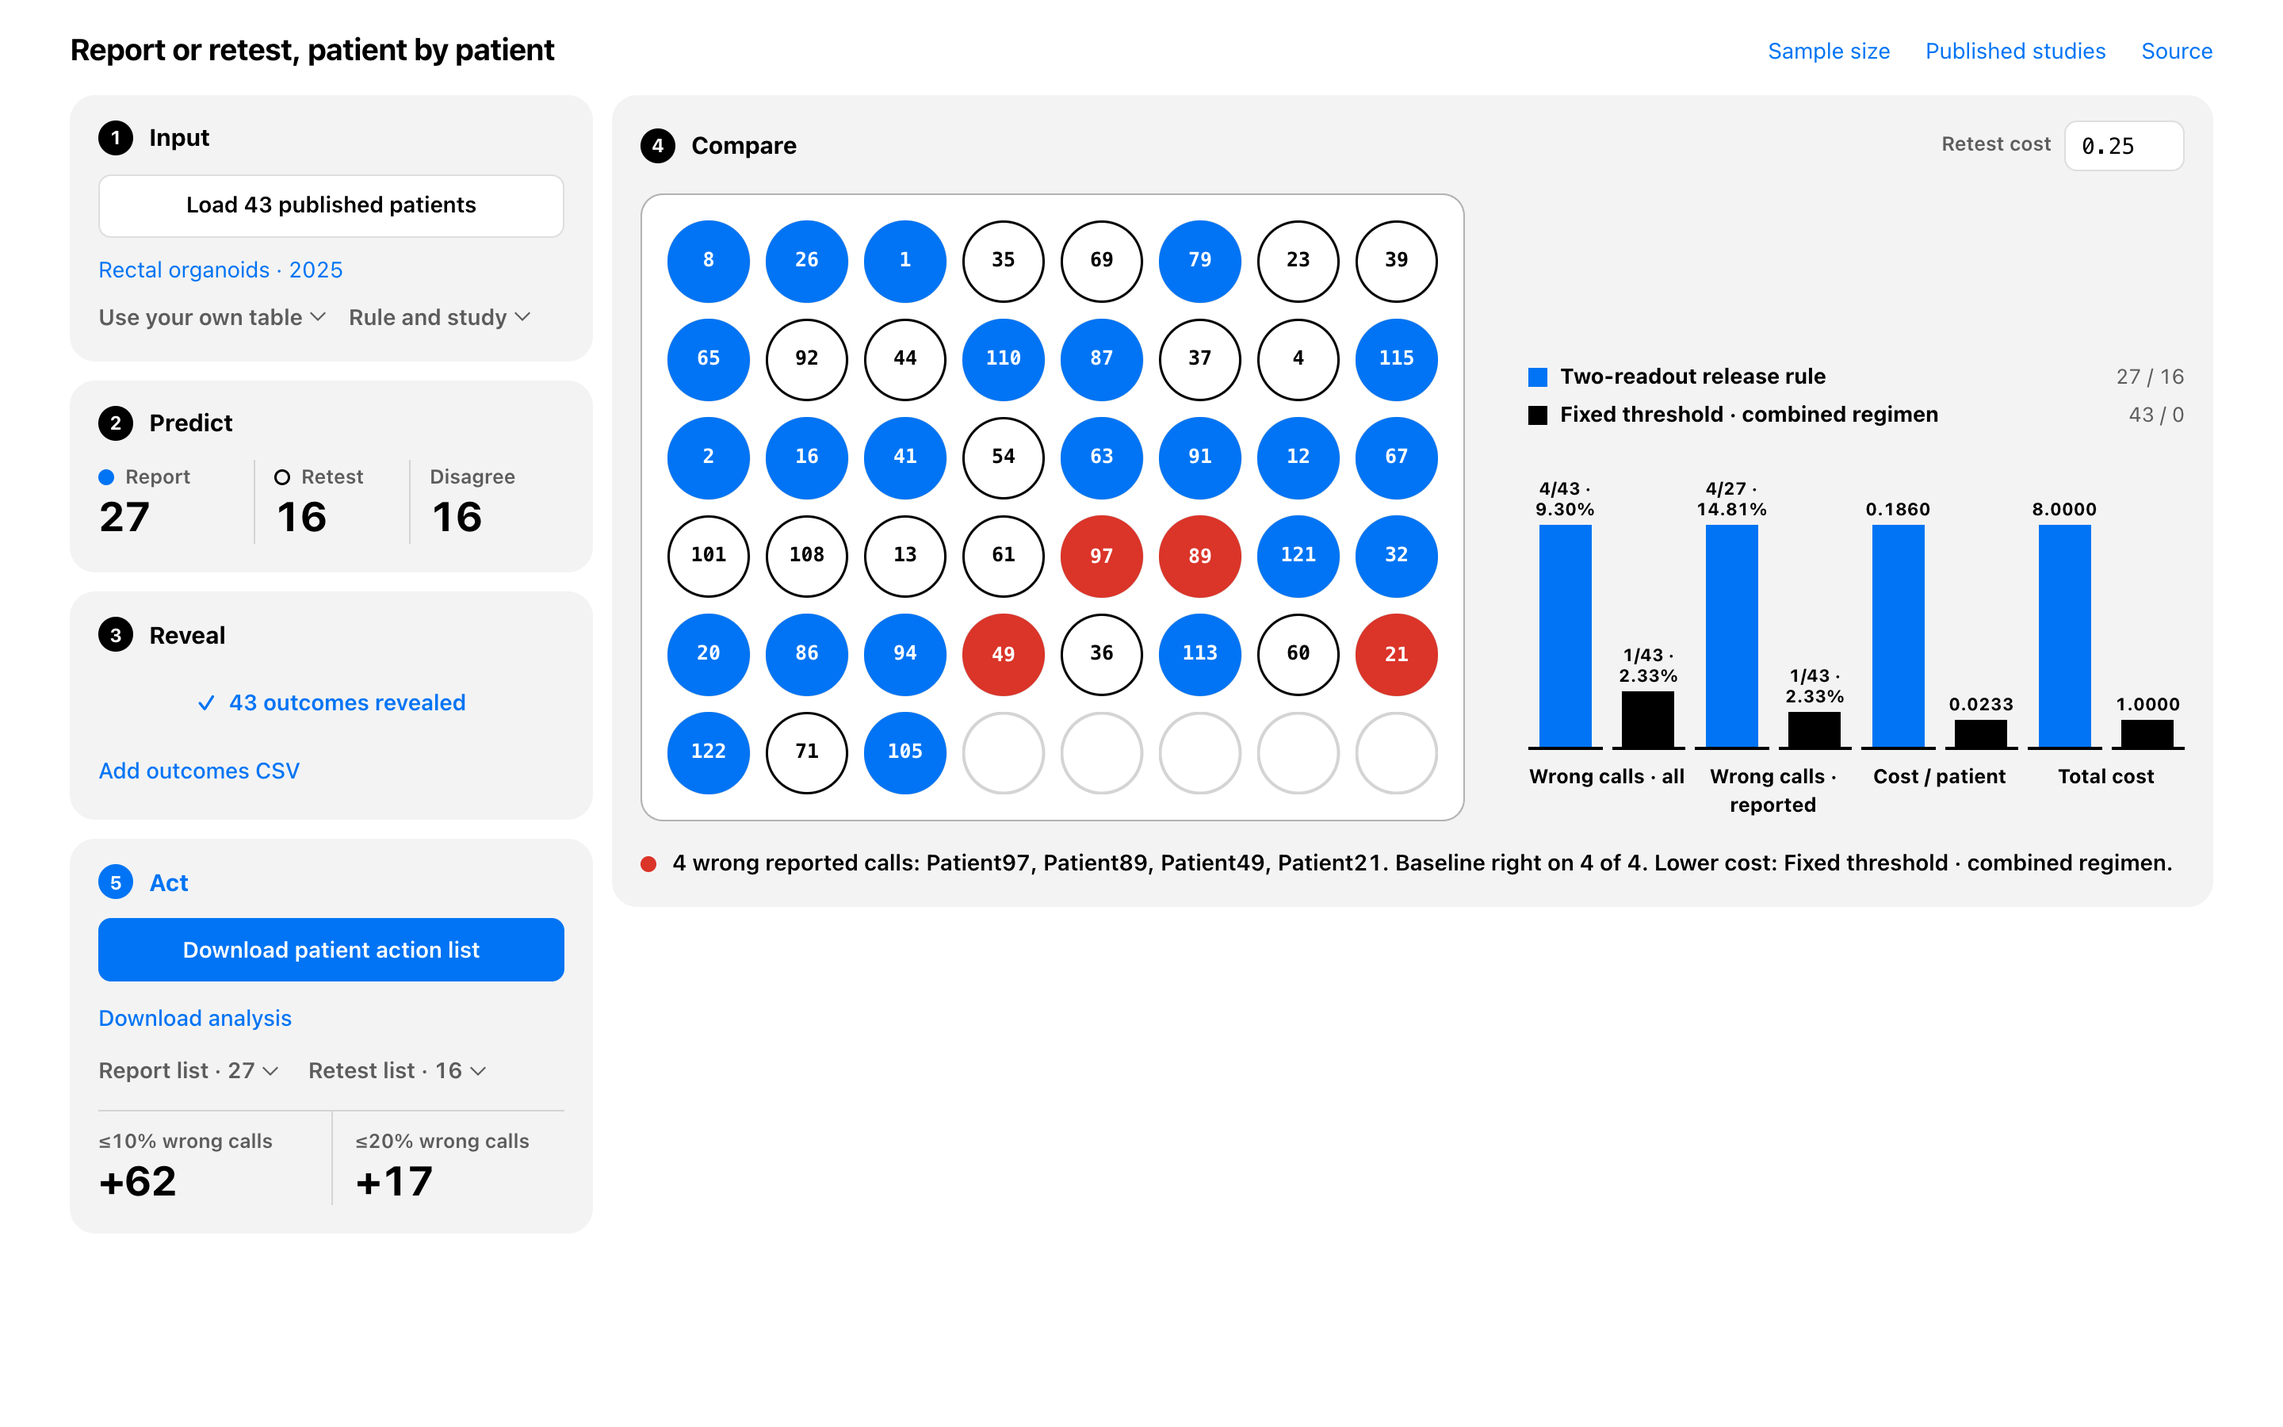
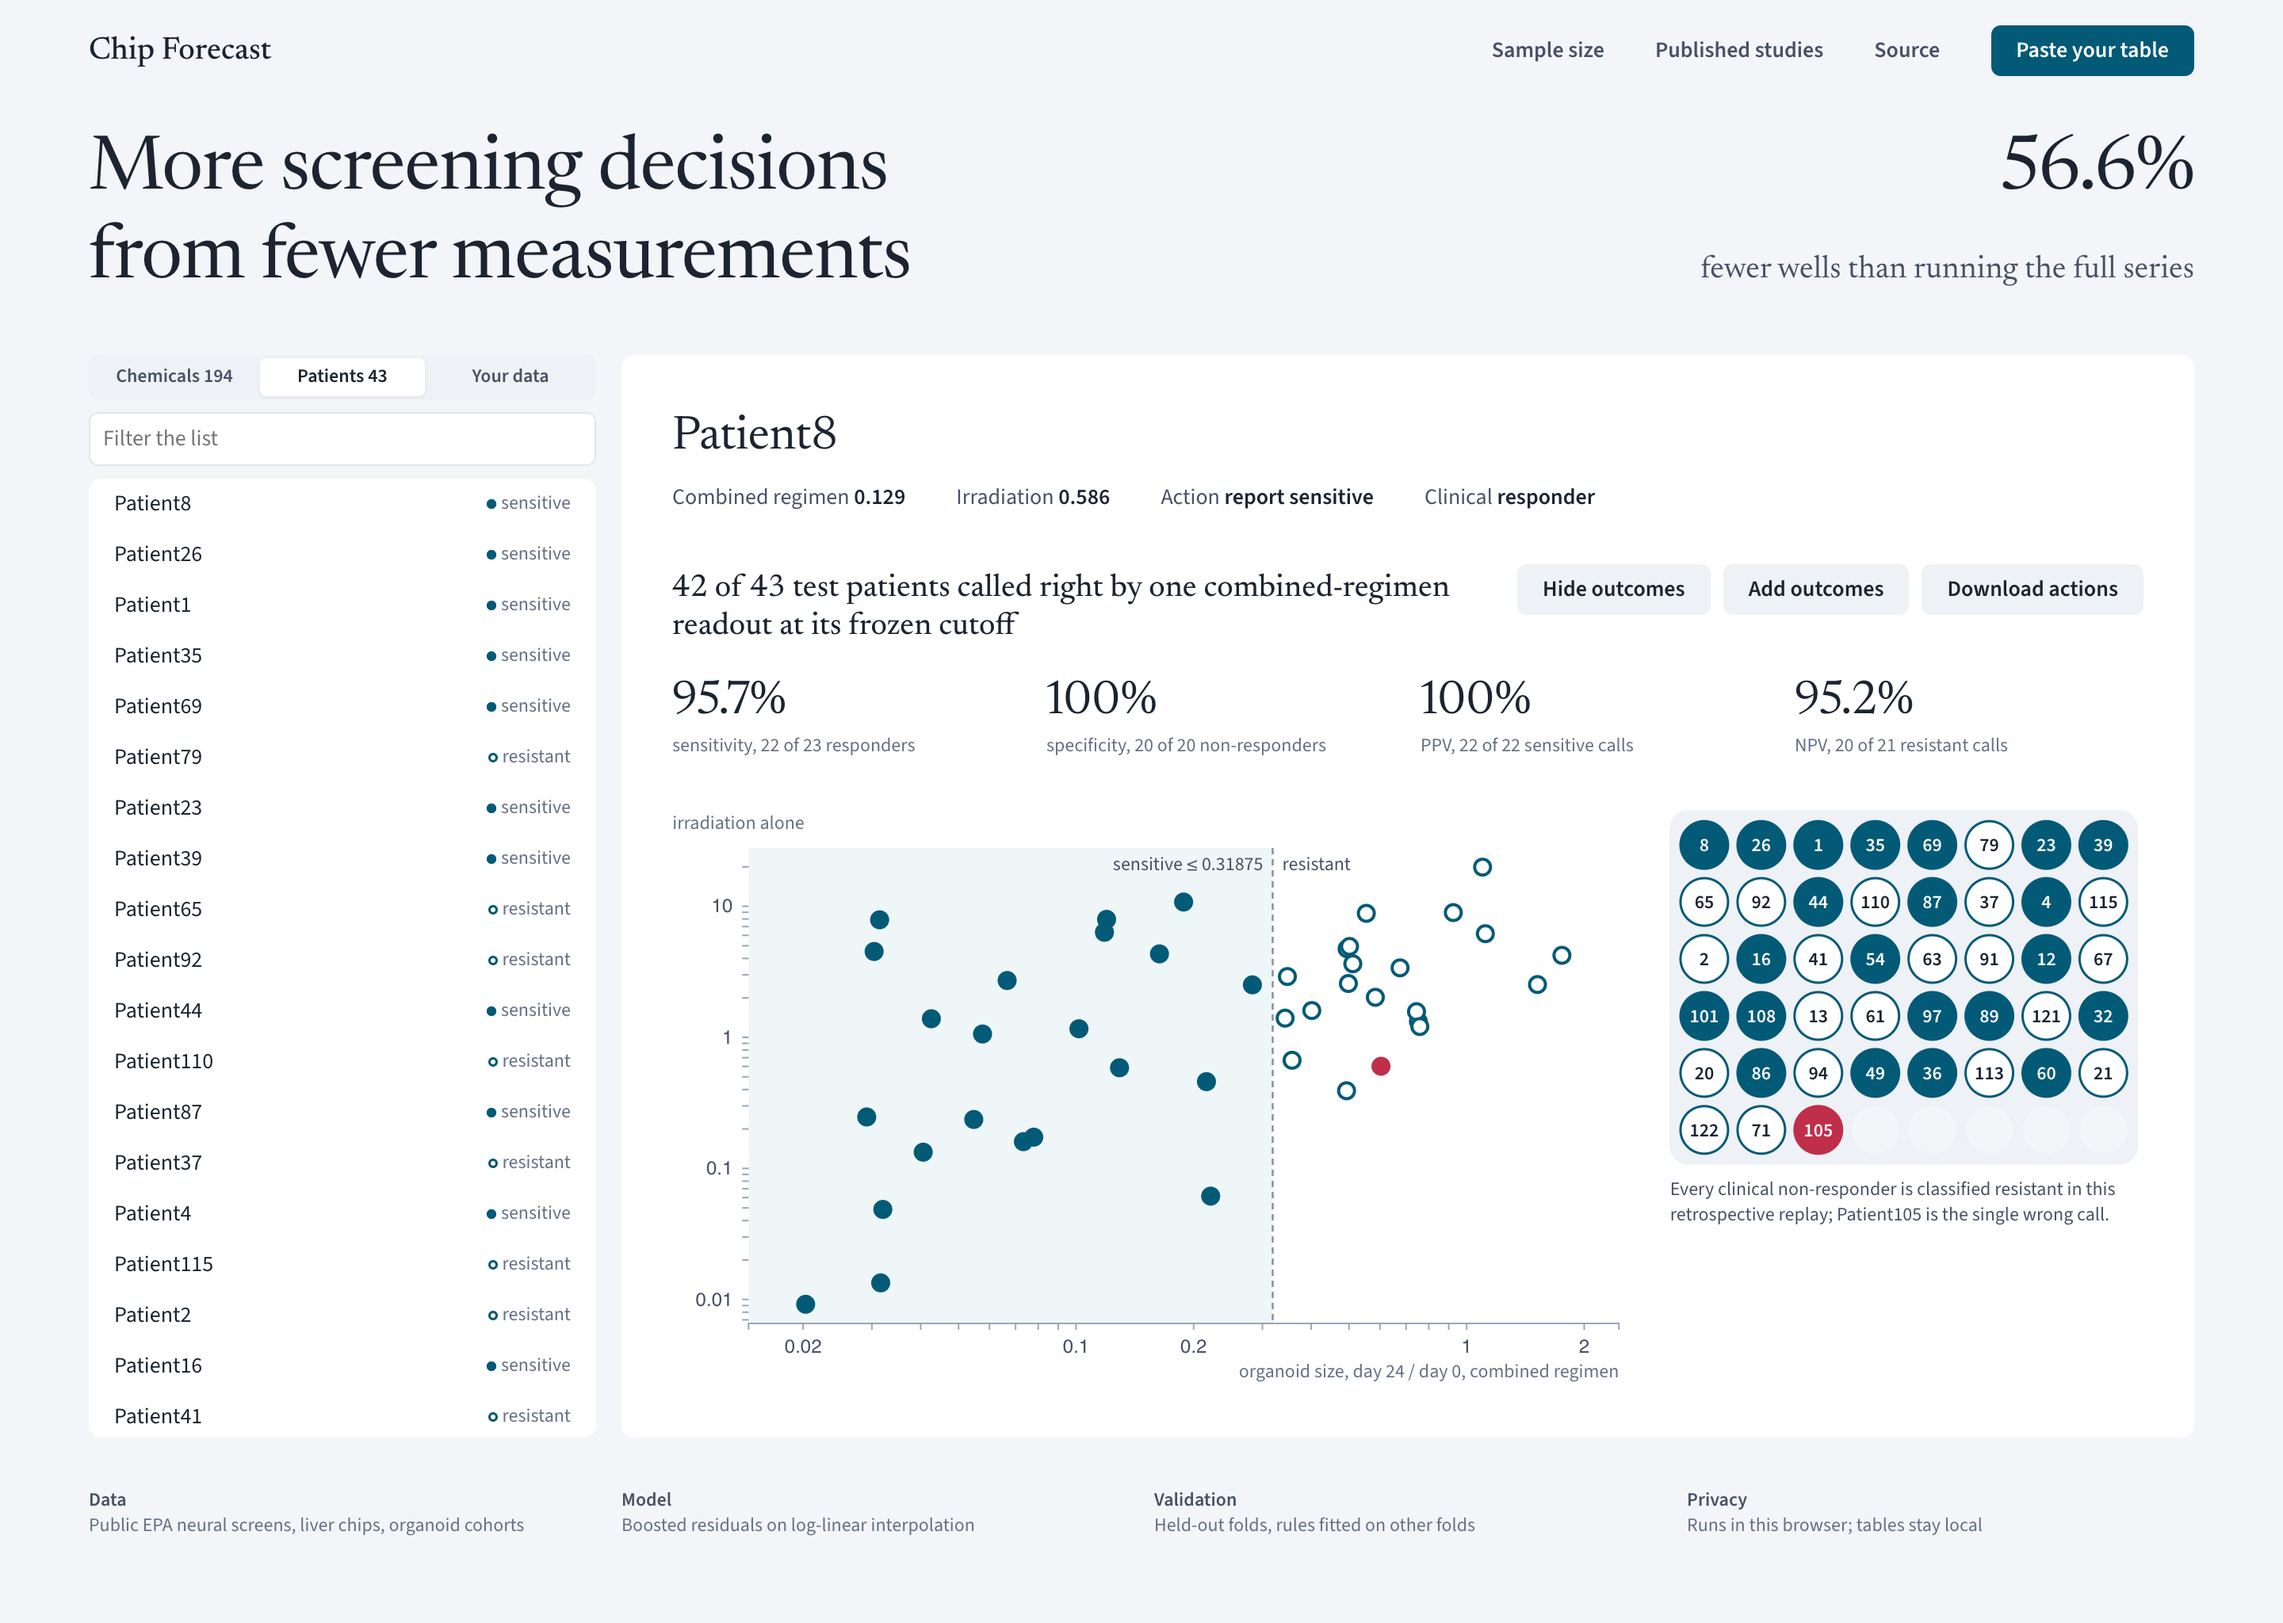
style: update

diff --git a/workbench/assets/system.css b/workbench/assets/system.css
@@ -22,30 +22,30 @@
   --radius: 8px;
   --ease: cubic-bezier(.2, .7, .2, 1);
   --t: 240ms;
-  /* warm neutrals */
-  --paper: #f4f2ec;
-  --surface: #fbfaf7;
+  /* cool neutrals, matched to the report figures */
+  --paper: #f3f5f8;
+  --surface: #fbfcfe;
   --raised: #ffffff;
-  --sunk: #efece5;
-  --ink: #1d1c19;
-  --ink-2: #4d4a43;
-  --ink-3: #6c675f;
-  --line: #e5e1d7;
-  --axis: #cfc9bc;
+  --sunk: #eef1f5;
+  --ink: #1b2430;
+  --ink-2: #475165;
+  --ink-3: #647084;
+  --line: #e1e6ed;
+  --axis: #c9d1dc;
   /* data semantics, fixed everywhere */
-  --measured: #1d1c19;
+  --measured: #1b2430;
   --forecast: #00789e;
   --band: rgba(0, 120, 158, .15);
-  --cutoff: #8b8274;
+  --cutoff: #8591a3;
   --report: #035a77;
   --retest: #b07f0a;
   --wrong: #bf2f4a;
-  --compare: #a39d92;
+  --compare: #a3adbc;
   --accent: #00789e;
   --accent-ink: #035a77;
   --on-accent: #ffffff;
-  --heat-lo: #f1eee6;
-  --heat-hi: #34312c;
+  --heat-lo: #eef1f5;
+  --heat-hi: #1b2430;
 }
 [data-theme="dark"] {
   color-scheme: dark;
@@ -76,10 +76,10 @@
 
 /* figure surface: white sheet, darker hairline axes, the journal-figure look */
 [data-style="figure"] {
-  --paper: #f3f1ec;
+  --paper: #f3f5f8;
   --surface: #ffffff;
-  --sunk: #f3f1ec;
-  --axis: #a49e92;
+  --sunk: #eef1f5;
+  --axis: #9aa5b5;
 }
 [data-style="figure"] .chart .axis text { fill: var(--ink-2); }
 
